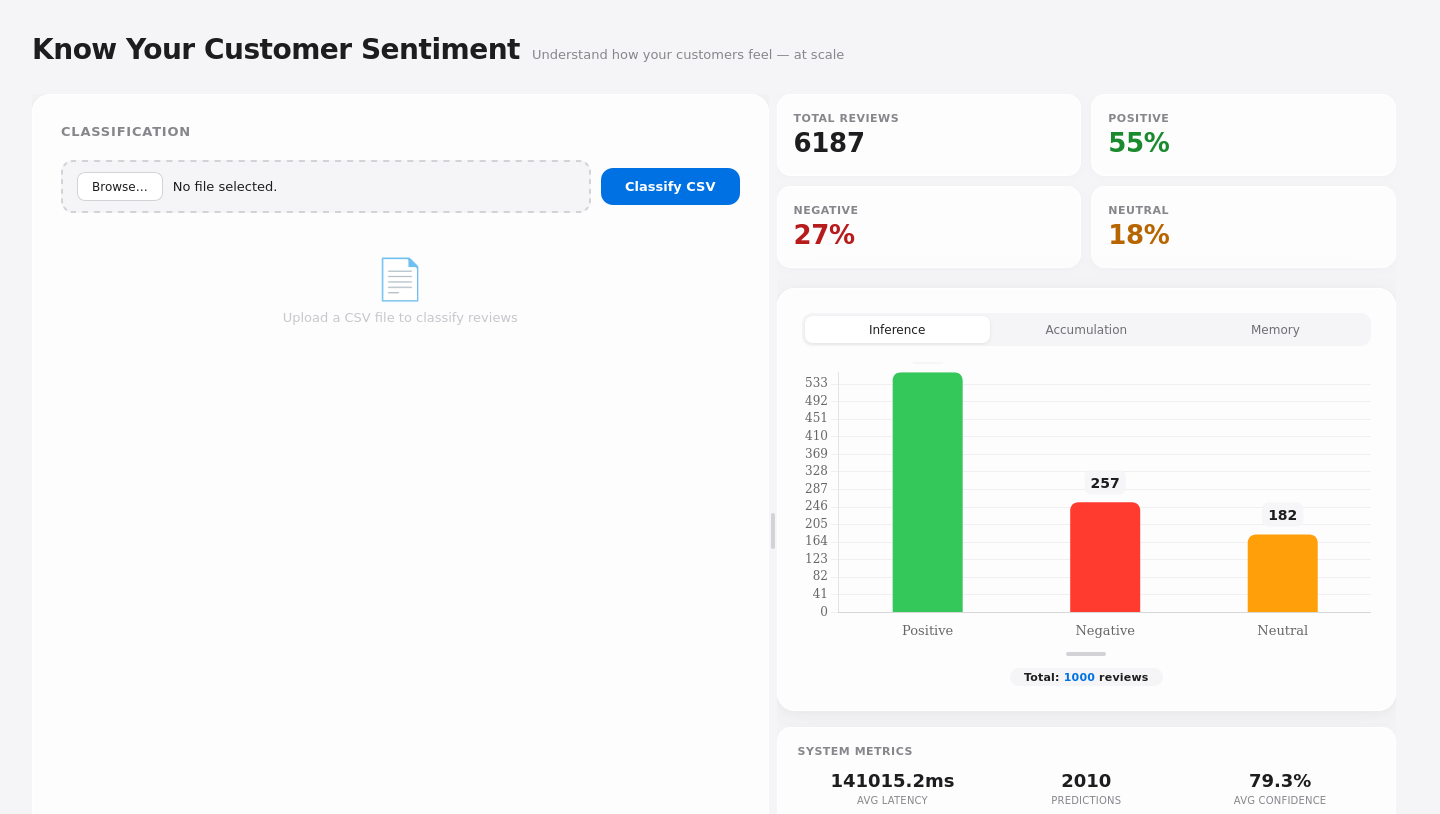
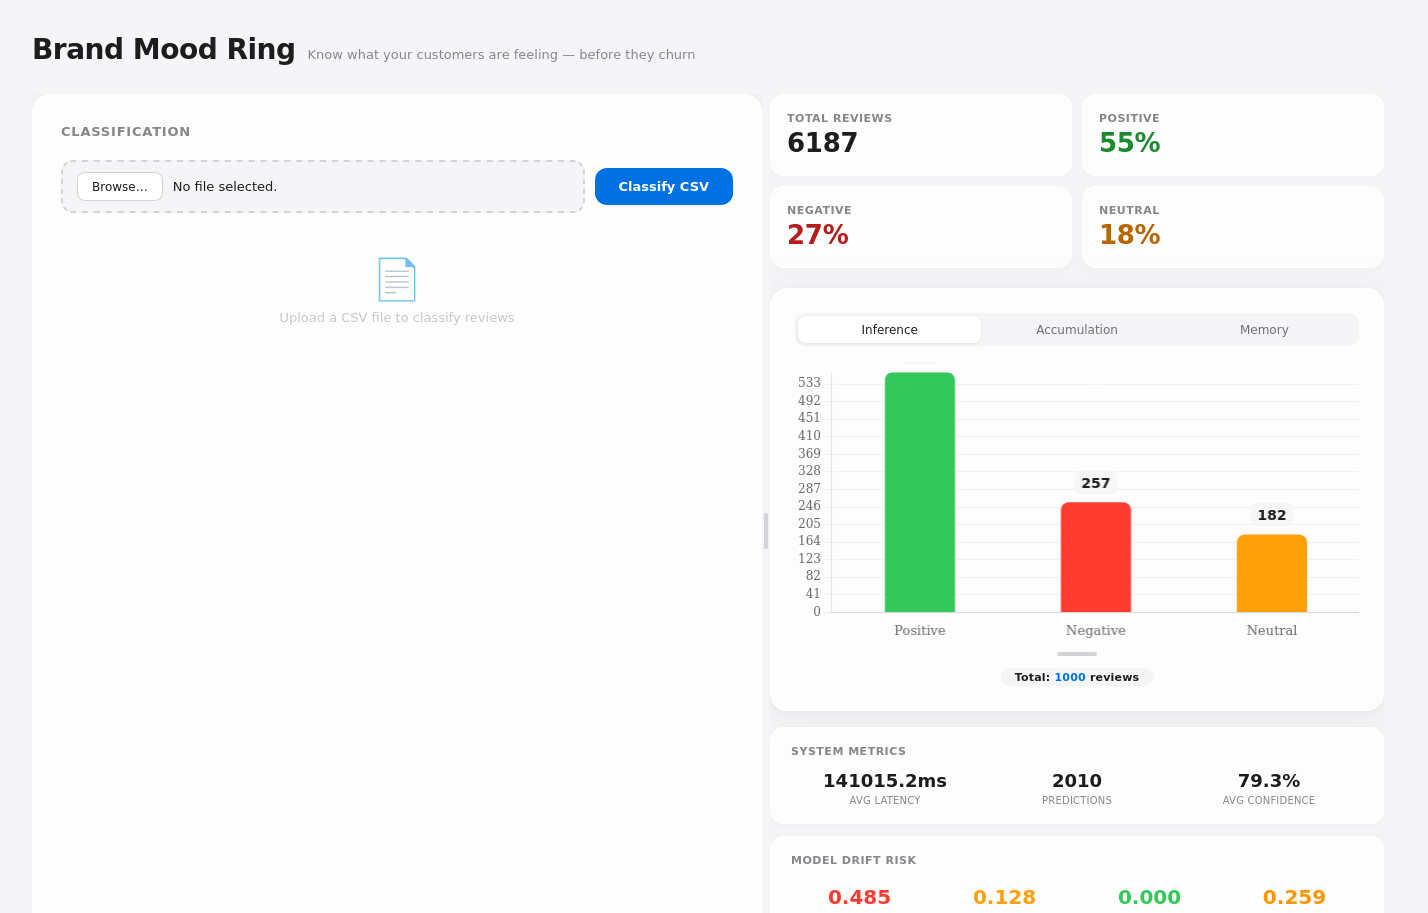
rename to Read the Room; full-page hero screenshot with drift cards; fix README

diff --git a/inference/static/index.html b/inference/static/index.html
@@ -3,7 +3,7 @@
 <head>
 <meta charset="UTF-8">
 <meta name="viewport" content="width=device-width, initial-scale=1.0">
-<title>Brand Mood Ring</title>
+<title>Read the Room</title>
 <script src="https://cdn.jsdelivr.net/npm/chart.js@4"></script>
 <style>
 *{margin:0;padding:0;box-sizing:border-box}
@@ -130,7 +130,7 @@ tr:hover td{background:#f5f7fa}
 <div class="container">
 
 <header>
-<h1>Brand Mood Ring</h1>
+<h1>Read the Room</h1>
 <span class="sub">Know what your customers are feeling — before they churn</span>
 </header>
 

diff --git a/README.md b/README.md
@@ -1,8 +1,8 @@
-# Brand Mood Ring
+# Read the Room
 
 Know what your customers are feeling — before they churn.
 
-![Brand Mood Ring UI](ui_hero.png)
+![Read the Room UI](ui_hero.png)
 
 Every review, support ticket, and social mention is a signal that most businesses ignore until the quarterly report. This project turns those signals into real-time sentiment data and — more importantly — **tells you when the way people talk about your brand has shifted**, so you can adapt before your engagement metrics do.
 
@@ -16,85 +16,69 @@ Language evolves. Internet culture redefines words overnight. "Sick" meant disgu
 
 This project is built around three principles:
 
-### 1. Cost efficient
+### Cost efficient
 Open-source **RoBERTa** runs on a 4 GB GPU. All fine-tuning uses **LoRA adapters** — megabytes instead of gigabytes, minutes instead of hours. The base model stays in memory permanently; only the tiny adapter gets swapped.
 
-### 2. Plug-in / plug-out
+### Plug-in / plug-out
 Change `pretrained_name` in one YAML file and the entire project rewires itself — preprocessing, inference, embedding extraction for drift. Drop an `adapter_config.json` into the models folder and the server picks it up on restart. Delete it and it falls back to the base model. No code changes.
 
-### 3. Monitoring or it didn't happen
+### Monitoring or it didn't happen
 Four drift signals run continuously. When any crosses the alert threshold, a card turns red in the dashboard and you know it is time to retrain — not because a calendar told you to, but because the data did.
 
 ---
 
-## The UI — what does what
+## The UI
 
 ### Classify + Cache
+Upload a CSV with a `text` column. Every row runs through a two-model ensemble (reviews + social media). Results stream back with sentiment, confidence, and which model decided. Re-upload the same file and results load instantly from cache.
 
-Upload a CSV with a `text` column. Every row runs through a two-model ensemble (one trained on reviews, one on social media). Results stream back with sentiment, confidence, and which model decided.
+### Three chart views
 
-The UI caches the last upload by file hash. Re-upload the same file and results load instantly — no redundant inference.
-
-### Three chart views — why each exists
-
-The bar chart shows positive / neutral / negative counts across three views:
-
-| View | Resets | Why it exists |
+| View | Resets | Why |
 |---|---|---|
-| **Inference** | Every new upload | You just ran a batch. See what the model thinks, right now. |
-| **Accumulation** | Every quarter (configurable) | This is the quarter so far. Use it mid-quarter to spot trends and adjust campaigns, support staffing, or product messaging — not after the quarter ends. |
-| **Memory** | Never (grows) | Last quarter's data lives here. Compare Q3 vs Q4. Did a pricing change shift sentiment? Did the new feature launch actually improve things? |
+| **Inference** | Every new upload | See what the model thinks right now. |
+| **Accumulation** | Every quarter | Spot trends mid-quarter — adjust campaigns, staffing, or messaging before the quarter ends. |
+| **Memory** | Never | Compare last quarter to this one. Did that pricing change help? Did the feature launch shift sentiment? |
 
-**Business logic:** Accumulation is your canary. Memory is your history book. Together they turn sentiment from a lagging KPI into a leading one.
+Accumulation is your canary. Memory is your history book. Together they make sentiment a leading indicator, not a lagging one.
 
 ### System metrics
-
-Three numbers under the chart:
-
-- **Avg Latency** — milliseconds per classification. If this creeps up, the model might need optimization or the hardware is bottlenecked.
-- **Predictions** — total since server start. Usage tracking.
-- **Avg Confidence** — mean model confidence. If it drops over time, the model is seeing data it is less sure about — a leading drift indicator before PSI confirms it.
+- **Avg Latency** — ms per classification. Creep = bottleneck.
+- **Predictions** — total since server start.
+- **Avg Confidence** — dropping mean confidence is a leading drift signal, before PSI confirms it.
 
 ### Model Drift Risk
 
-Four cards at the bottom right. Each shows a PSI (Population Stability Index) value — a statistical measure of how much a distribution has shifted from training to now:
+Four cards at the bottom right. PSI (Population Stability Index) measures how much a distribution has shifted from training to now:
 
 | Card | What it measures | If it turns red |
 |---|---|---|
-| **Data Drift** | Text length distribution | Customers changed how they write (shorter reviews, longer tickets). May need preprocessing adjustments or a new data sample. |
-| **Prediction Drift** | Model confidence distribution | The model is more (or less) confident than it was. Something about the incoming data is unfamiliar. |
-| **Target Drift** | Sentiment label distribution | The mix of positive/neutral/negative has shifted. Customers are genuinely changing how they feel. |
-| **Semantic Drift** | Embedding distribution (PCA + KMeans → PSI) | The *words people use* are changing. "Sick" started meaning cool. The model is blind to this. This card is your earliest warning. |
+| **Data Drift** | Text length distribution | Customers changed how they write. May need a new data sample. |
+| **Prediction Drift** | Confidence distribution | The model is seeing unfamiliar inputs. |
+| **Target Drift** | Sentiment label mix | Customers are genuinely changing how they feel. |
+| **Semantic Drift** | Word choice distribution (PCA + KMeans → PSI) | The *words people use* are changing. This is your earliest warning — "sick" now means cool and the model has no idea. |
 
-PSI is unbounded. The risk color gradient is: **low < 0.1 → medium < 0.2 → high < 0.3 → critical ≥ 0.3**. The **alert threshold is PSI ≥ 0.25** — any card hitting that is your signal to collect fresh data and trigger a LoRA retraining run.
+PSI is unbounded. Risk levels: **low < 0.1 → medium < 0.2 → high < 0.3 → critical ≥ 0.3**. Alert threshold is **PSI ≥ 0.25**.
 
-> A red drift card does not mean the model is broken. It means the world moved, and the model hasn't. That is a much cheaper problem to fix.
+> A red drift card does not mean the model is broken. It means the world moved, and the model hasn't.
 
 ---
 
 ## Architecture
 
 ```
-Airflow DAGs
-  Base Pipeline (schedule) ──► artifacts/models/<name>/
-                                    ├── adapter (LoRA)
-  PEFT Training (manual)    ──►    └── monitoring/ baselines
-                                          ├── data_drift_baseline.json
-                                          ├── prediction_drift_baseline.json
-                                          ├── target_drift_baseline.json
-                                          ├── semantic_pca.pkl + kmeans.pkl
-                                          └── semantic_expected.npy
-                                            │
-FastAPI Server                   ◄──────────┘
-  /predict ─► decision_engine ─► predictions.jsonl ─► PSI computation
-  /drift/metrics ─► Prometheus gauges ─► Grafana dashboard
-  /lifecycle/metrics ─► accumulation + memory windows
+Base DAG (scheduled) ──► artifacts/models/<name>/monitoring/
+PEFT DAG (manual)    ──►   ├── data_drift_baseline.json
+                            ├── prediction_drift_baseline.json
+                            ├── target_drift_baseline.json
+                            ├── semantic_pca.pkl + kmeans.pkl
+                            └── semantic_expected.npy
+                              │
+FastAPI Server               │
+  /predict ─► predictions.jsonl ─► PSI ─► Prometheus ─► Grafana
+  /drift/metrics
+  /lifecycle/metrics ─► accumulation + memory
 ```
-
-| DAG | Trigger | What it does |
-|---|---|---|
-| `base_model_dag` | Schedule | Preprocess → evaluate base model → generate semantic baselines |
-| `peft_training` | Manual (from drift alert) | Train LoRA adapter → evaluate → generate all baselines → deploy |
 
 ---
 
@@ -113,12 +97,49 @@ python3 -m preprocessing.preprocess dataset=amazon
 # Evaluate base model
 python3 -m evaluation.evaluate dataset=twitter model=twitter_roberta evaluator.use_peft=False
 
-# Generate baselines (see README quick-start section for full command)
-# Then:
+# Generate monitoring baselines (data drift, target drift, prediction drift)
+python3 -c "
+from inference.monitoring_utils import generate_and_save_baselines
+from inference.model_loader import predict
+from transformers import AutoTokenizer, AutoModelForSequenceClassification
+import pandas as pd, torch, numpy as np
+for name in ['twitter', 'amazon']:
+    train_df = pd.read_csv(f'Data/processed/{name}/train.csv')
+    val_df = pd.read_csv(f'Data/processed/{name}/val.csv')
+    tokenizer = AutoTokenizer.from_pretrained('cardiffnlp/twitter-roberta-base-sentiment')
+    model = AutoModelForSequenceClassification.from_pretrained(
+        'cardiffnlp/twitter-roberta-base-sentiment', num_labels=3, ignore_mismatched_sizes=True
+    ).to('cuda' if torch.cuda.is_available() else 'cpu')
+    model.eval()
+    _, probs = predict(val_df['text'].dropna().astype(str).tolist(), tokenizer, model, batch_size=16)
+    generate_and_save_baselines(name, train_df, val_df, target_col='label', val_confidences=probs.max(axis=1))
+    del model; torch.cuda.empty_cache()
+"
+
+# Generate semantic baselines (embedding drift)
+PYTORCH_CUDA_ALLOC_CONF=expandable_segments:True python3 -c "
+from inference.semantic_monitoring_utils import fit_semantic_baseline
+import pandas as pd
+for name in ['twitter', 'amazon']:
+    df = pd.read_csv(f'Data/processed/{name}/train.csv')
+    texts = df['text'].dropna().astype(str).tolist()
+    fit_semantic_baseline(name, texts, labels=df['label'].values if 'label' in df.columns else None)
+"
+
+# Start the stack
 docker compose up -d
 ```
 
 Open `http://localhost:8000`, upload a CSV, click **Classify CSV**.
+
+### Drift verification
+
+```bash
+python3 scripts/production_drift_job.py
+python3 scripts/production_semantic_drift_job.py
+```
+
+The drift cards populate at the bottom of the UI.
 
 ---
 
@@ -142,8 +163,8 @@ Restart the container and the server picks up the LoRA adapter automatically.
 ├── training/               # LoRA fine-tuning
 ├── evaluation/             # Model evaluation (with/without PEFT)
 ├── preprocessing/          # Text cleaning + train/val/test split
-├── scripts/                # Production drift jobs (24h cron)
-├── Data/                   # Raw (DVC) + processed CSVs
+├── scripts/                # Production drift jobs
+├── Data/                   # Raw + processed CSVs
 ├── docker-compose.yml
 └── prometheus/             # Alert rules
 ```